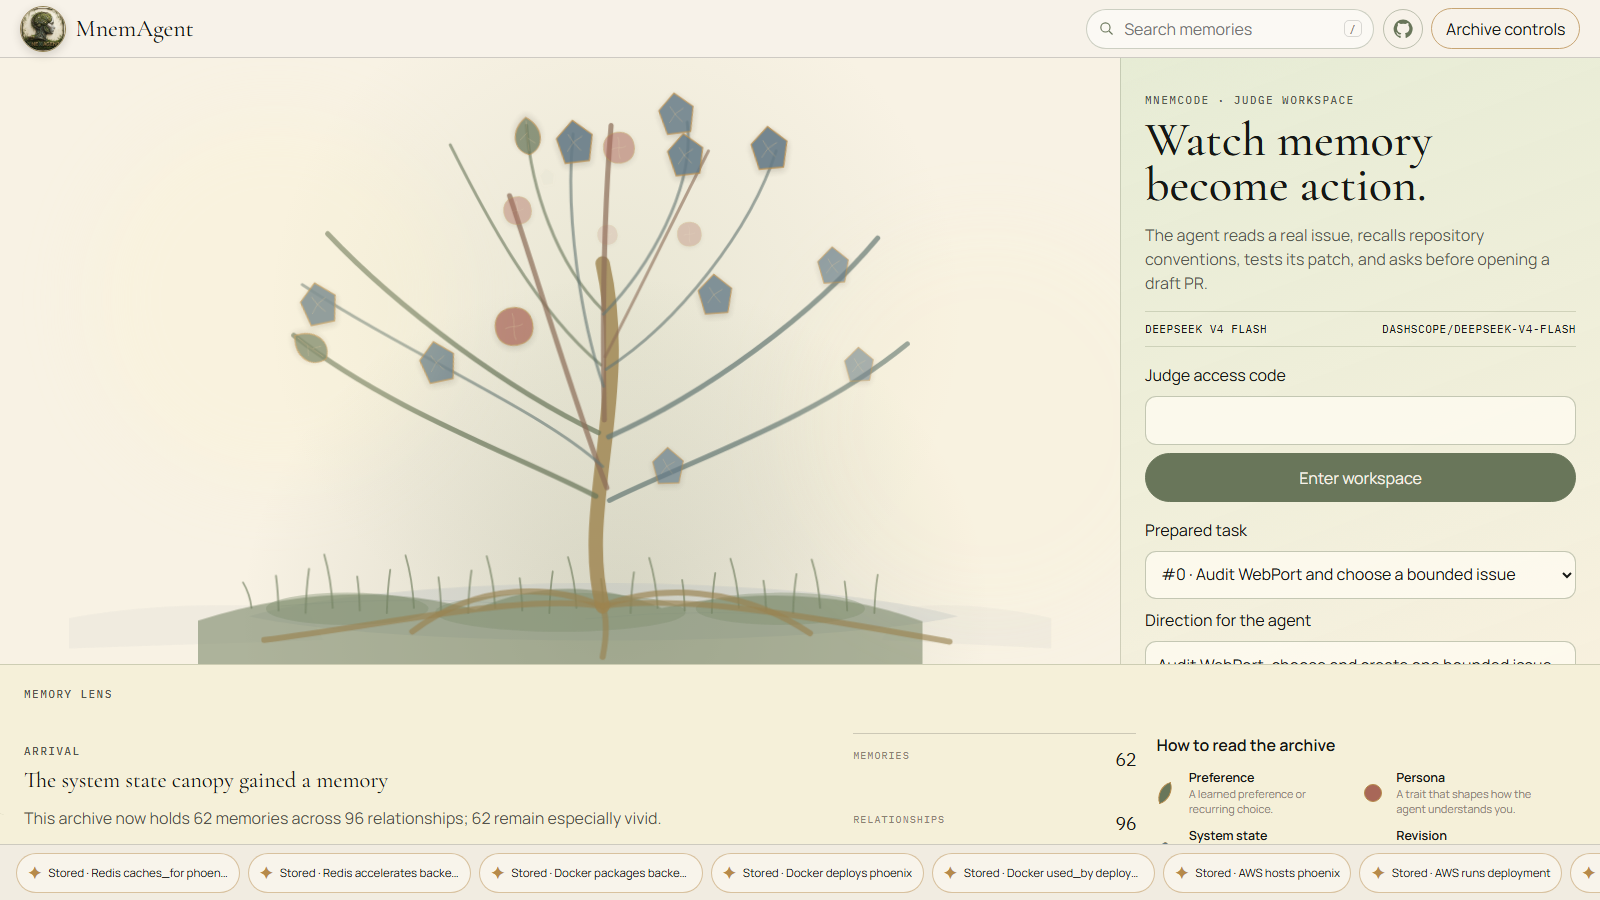
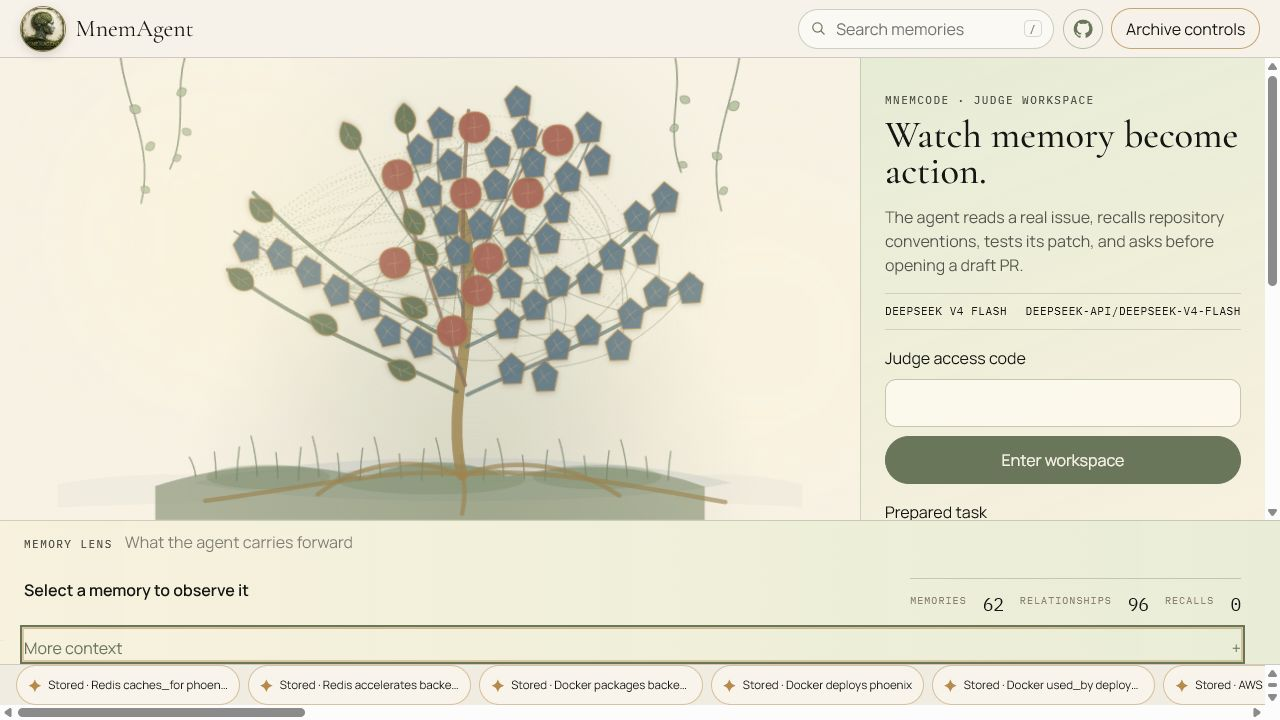
feat: polish DeepSeek judge workflow

diff --git a/workspace-broker/src/workspace-manager.js b/workspace-broker/src/workspace-manager.js
@@ -1,6 +1,6 @@
 import { randomUUID } from 'node:crypto';
 import { execFile, spawn } from 'node:child_process';
-import { readFile, readdir, realpath, rm } from 'node:fs/promises';
+import { readFile, readdir, realpath, rm, writeFile } from 'node:fs/promises';
 import path from 'node:path';
 import { promisify } from 'node:util';
 import { validatePatch } from '../../workspace-runner/patch-policy.js';
@@ -59,6 +59,22 @@ export function createWorkspaceManager({ root, allowedRepository, clone, runnerI
       }
       await walk(session.path);
       return files.sort();
+    },
+    async replaceText(id, { path: relativePath, oldText, newText } = {}) {
+      const session = sessions.get(id);
+      if (!session) throw new Error('Workspace not found.');
+      if (typeof relativePath !== 'string' || !/^(?:src|include|test|tests|public|tools)\/[A-Za-z0-9_./-]+\.(?:js|mjs|cjs|cpp|cc|c|h|hpp|css|html|json)$/.test(relativePath) || relativePath.includes('..')) throw new Error('Workspace path is invalid.');
+      if (typeof oldText !== 'string' || typeof newText !== 'string' || !oldText || oldText.length > 10_000 || newText.length > 12_000) throw new Error('Replacement is outside the bounded edit policy.');
+      if (newText.split('\n').length > 200) throw new Error('Replacement exceeds 200 lines.');
+      const workspace = await realpath(session.path);
+      const target = await realpath(path.join(workspace, relativePath));
+      if (!target.startsWith(`${workspace}${path.sep}`)) throw new Error('Workspace path escapes the repository.');
+      const content = await readFile(target, 'utf8');
+      const occurrences = content.split(oldText).length - 1;
+      if (occurrences !== 1) throw new Error('Old text must occur exactly once.');
+      await writeFile(target, content.replace(oldText, newText), 'utf8');
+      await execFileAsync('git', ['add', '-N', '--', relativePath], { cwd: session.path, windowsHide: true });
+      return { path: relativePath, changedLines: Math.max(oldText.split('\n').length, newText.split('\n').length) };
     },
     async applyPatch(id, patchText) {
       const session = sessions.get(id);

diff --git a/openclaw-harness/src/public/styles/agent-workbench.css b/openclaw-harness/src/public/styles/agent-workbench.css
@@ -15,9 +15,20 @@
 .agent-activity li { display: grid; gap: .2rem; padding-left: 1rem; border-left: 2px solid var(--lichen-green); }
 .agent-activity strong { font: .65rem var(--font-mono); text-transform: uppercase; }
 .agent-activity span { font-size: .76rem; white-space: pre-wrap; }
-.memory-lens { padding: .7rem 1.5rem; border-left: 0; border-top: 1px solid rgba(65,82,47,.22); background: rgba(245,239,217,.96); }
-.memory-lens-grid { display: grid; grid-template-columns: minmax(0, 2fr) minmax(180px, .7fr) minmax(230px, 1fr); gap: 1.25rem; min-height: 0; }
-.memory-lens h2 { font-size: 1.4rem; }
+.memory-lens { padding: .55rem 1.5rem .7rem; border-left: 0; border-top: 1px solid rgba(65,82,47,.22); background: linear-gradient(90deg, rgba(247,241,222,.98), rgba(232,237,214,.96)); }
+.memory-lens-heading { display: flex; align-items: baseline; gap: .75rem; margin-bottom: .25rem; }
+.memory-lens-heading p { margin: 0; }
+.memory-lens-heading > span { color: color-mix(in srgb, var(--ink) 52%, transparent); font: .67rem var(--font-sans); }
+.memory-lens-grid { display: grid; grid-template-columns: minmax(0, 1fr) auto; align-items: start; gap: .75rem 1.25rem; min-height: 0; }
+.memory-lens-primary { min-width: 0; }
+.memory-lens h2 { margin: 0 0 .2rem; font-size: 1.25rem; line-height: 1; }
+.memory-lens #vitalSigns { display: grid; grid-auto-flow: column; gap: 1rem; margin: 0; }
+.memory-lens-context { grid-column: 1 / -1; border-top: 1px solid rgba(65,82,47,.14); }
+.memory-lens-context summary { display: flex; justify-content: space-between; align-items: center; padding: .4rem 0 0; cursor: pointer; color: var(--living-moss); font: 600 .67rem var(--font-sans); list-style: none; }
+.memory-lens-context summary::-webkit-details-marker { display: none; }
+.memory-lens-context summary span:last-child { transition: transform 180ms var(--ease-organic); }
+.memory-lens-context[open] summary span:last-child { transform: rotate(45deg); }
+.memory-lens-context-body { display: grid; grid-template-columns: minmax(0, 1fr) minmax(260px, .8fr); gap: 1.25rem; padding: .45rem 0 .25rem; }
 .memory-lens .material-legend-list { grid-template-columns: repeat(2, minmax(0,1fr)); }
 @media (max-width: 1099px) {
   .archive-app { grid-template-rows: var(--header-h) auto 56px; }

diff --git a/openclaw-harness/src/public/index.html b/openclaw-harness/src/public/index.html
@@ -57,13 +57,19 @@
       </aside>
     </main>
     <section id="observationMargin" class="observation-margin memory-lens" aria-label="Memory Lens">
+      <div class="memory-lens-heading">
         <p class="observation-eyebrow">Memory lens</p>
-        <div class="memory-lens-grid">
-        <div><section id="narrativeCopy" aria-live="polite"></section><section id="memoryDetail" aria-label="Selected memory"></section></div>
+        <span>What the agent carries forward</span>
+      </div>
+      <div class="memory-lens-grid">
+        <div class="memory-lens-primary"><section id="memoryDetail" aria-label="Selected memory"></section></div>
         <dl id="vitalSigns" aria-label="Archive vital signs"></dl>
-        <section id="materialLegend" aria-label="Memory material legend"></section>
-        </div>
-      </section>
+        <details class="memory-lens-context">
+          <summary><span>More context</span><span aria-hidden="true">+</span></summary>
+          <div class="memory-lens-context-body"><section id="narrativeCopy" aria-live="polite"></section><section id="materialLegend" aria-label="Memory material legend"></section></div>
+        </details>
+      </div>
+    </section>
     <nav id="sedimentTimeline" class="sediment-timeline" aria-label="Memory history"></nav>
     <dialog id="archiveMenu" class="archive-menu" aria-labelledby="archiveMenuTitle"><form method="dialog"><h2 id="archiveMenuTitle">Archive controls</h2><label for="userId">Memory owner</label><input id="userId" name="userId" autocomplete="off"><fieldset id="categoryFilters"><legend>Memory forms</legend></fieldset><fieldset id="lifecycleFilters"><legend>Vitality</legend></fieldset><button id="motionToggle" type="button" aria-pressed="false">Reduce motion</button><button id="replayOpening" type="button">Replay awakening</button><button id="resetArchiveView" type="button">Reset view</button><button id="exportArchive" type="button">Export archive data</button><button id="retryArchive" type="button">Retry connection</button><button value="close">Close controls</button></form></dialog>
     <section id="observationSheet" class="observation-sheet" aria-labelledby="observationSheetTitle"><h2 id="observationSheetTitle">Memory observation</h2><div id="observationSheetContent"></div></section>

diff --git a/workspace-broker/src/index.js b/workspace-broker/src/index.js
@@ -65,8 +65,9 @@ const server = http.createServer(async (req, res) => {
     if (req.method === 'GET' && fileMatch) return send(res, 200, { content: await manager.readFile(fileMatch[1], decodeURIComponent(fileMatch[2])) });
     const filesMatch = /^\/v1\/workspaces\/([^/]+)\/files$/.exec(req.url);
     if (req.method === 'GET' && filesMatch) return send(res, 200, { files: await manager.listFiles(filesMatch[1]) });
-    const actionMatch = /^\/v1\/workspaces\/([^/]+)\/(patch|test|diff)$/.exec(req.url);
+    const actionMatch = /^\/v1\/workspaces\/([^/]+)\/(patch|replace|test|diff)$/.exec(req.url);
     if (actionMatch && req.method === 'POST' && actionMatch[2] === 'patch') return send(res, 200, await manager.applyPatch(actionMatch[1], input.patch));
+    if (actionMatch && req.method === 'POST' && actionMatch[2] === 'replace') return send(res, 200, await manager.replaceText(actionMatch[1], input));
     if (actionMatch && req.method === 'POST' && actionMatch[2] === 'test') {
       const result = await manager.test(actionMatch[1], input);
       testEvidence.set(actionMatch[1], result.exitCode === 0);

diff --git a/config/openclaw/broker-mcp.js b/config/openclaw/broker-mcp.js
@@ -21,6 +21,7 @@ const tools = [
   ['read_workspace_file', 'Read one regular file inside the active workspace', { workspaceId: { type: 'string' }, path: { type: 'string' } }],
   ['list_workspace_files', 'List bounded regular-file paths in the active workspace', { workspaceId: { type: 'string' } }],
   ['apply_workspace_patch', 'Validate and apply a bounded unified patch', { workspaceId: { type: 'string' }, patch: { type: 'string' } }],
+  ['replace_workspace_text', 'Replace one exact, unique, bounded source fragment', { workspaceId: { type: 'string' }, path: { type: 'string' }, oldText: { type: 'string' }, newText: { type: 'string' } }],
   ['run_workspace_tests', 'Run one fixed no-network test command', { workspaceId: { type: 'string' }, commandId: { type: 'string', enum: ['test','test-unit','validate-fs','test-integration','numeric-command-test'] } }],
   ['show_workspace_diff', 'Show the current bounded workspace diff', { workspaceId: { type: 'string' } }],
   ['cleanup_workspace', 'Delete the active workspace', { workspaceId: { type: 'string' } }],
@@ -34,6 +35,7 @@ async function call(name, args) {
   if (name === 'read_workspace_file') return broker(`/v1/workspaces/${id}/files?path=${encodeURIComponent(args.path)}`, 'GET');
   if (name === 'list_workspace_files') return broker(`/v1/workspaces/${id}/files`, 'GET');
   if (name === 'apply_workspace_patch') return broker(`/v1/workspaces/${id}/patch`, 'POST', { patch: args.patch });
+  if (name === 'replace_workspace_text') return broker(`/v1/workspaces/${id}/replace`, 'POST', { path: args.path, oldText: args.oldText, newText: args.newText });
   if (name === 'run_workspace_tests') return broker(`/v1/workspaces/${id}/test`, 'POST', { commandId: args.commandId });
   if (name === 'show_workspace_diff') return broker(`/v1/workspaces/${id}/diff`, 'POST');
   if (name === 'cleanup_workspace') return broker(`/v1/workspaces/${id}/cleanup`, 'POST');

diff --git a/openclaw-harness/src/index.js b/openclaw-harness/src/index.js
@@ -122,7 +122,7 @@ app.get("/api/judge/session", (req, res) => {
 });
 
 app.get("/api/judge/scenarios", (_req, res) => res.json({
-  model: process.env.JUDGE_MODEL || "dashscope/deepseek-v4-flash",
+  model: process.env.JUDGE_MODEL || "deepseek-api/deepseek-v4-flash",
   repository: process.env.JUDGE_DEMO_REPOSITORY || "crankysmh47/WebPort",
   scenarios: [
     { issueNumber: 0, title: "Audit WebPort and choose a bounded issue", outcome: "A real issue, tested patch, and draft PR" },

diff --git a/openclaw-harness/src/judge-run-service.js b/openclaw-harness/src/judge-run-service.js
@@ -22,7 +22,7 @@ async function openClawExecutor({ sessionId, message, model }) {
 }
 
 function createJudgeRunService({
-  model = process.env.JUDGE_MODEL || 'dashscope/deepseek-v4-flash',
+  model = process.env.JUDGE_MODEL || 'deepseek-api/deepseek-v4-flash',
   hardBudgetUsd = Number(process.env.JUDGE_MODEL_HARD_BUDGET_USD || 4.5),
   executor = openClawExecutor,
   replayText = 'Replay mode is active. The recorded agent run remains available without additional model spend.',

diff --git a/docs/MNEMCODE_DEMO.md b/docs/MNEMCODE_DEMO.md
@@ -17,7 +17,7 @@ sequenceDiagram
   U->>O: New session + issue
   O->>M: Retrieve repository + core memories
   O->>B: Read issue and bounded files
-  O->>B: Apply unified patch
+  O->>B: Apply bounded source edits
   B->>R: Fixed test command, no network
   R-->>B: Exit code + bounded output
   B-->>U: Diff and test evidence
@@ -28,16 +28,18 @@ sequenceDiagram
 
 ## WebPort acceptance case
 
-WebPort currently has no open issue. That is useful for the final test:
+The completed acceptance run is captured in [WebPort issue #11](https://github.com/crankysmh47/WebPort/issues/11) and [draft PR #13](https://github.com/crankysmh47/WebPort/pull/13):
 
-1. The agent creates issue-0 audit workspace and lists repository files.
+1. The agent creates an issue-0 audit workspace and lists repository files.
 2. It reads tests, contribution rules, and a small set of relevant sources.
 3. It selects a reproducible defect with a bounded test plan.
 4. It creates the GitHub issue, removes the audit workspace, and creates a fresh workspace tied to the new issue number.
 5. It retrieves repository memory, writes a test first, applies the implementation, and runs WebPort's fixed unit/validation commands.
 6. A human reviews the diff before the broker opens a draft PR.
 
-Model: `dashscope/deepseek-v4-flash` through the configured DashScope-compatible endpoint. The judge stack does not accept an OpenRouter key.
+The constrained runner passed the focused numeric-command regression test, WebPort's complete unit test command, and filesystem validation before the branch was published. The commit is authored only as `crankysmh47 <[email redacted]>`.
+
+Model: `deepseek-api/deepseek-v4-flash` in OpenClaw, sent as `deepseek-v4-flash` to the official DeepSeek API. The judge stack does not use the Qwen/DashScope key and does not accept an OpenRouter key.
 
 ## Hard limits
 

diff --git a/README.md b/README.md
@@ -65,7 +65,7 @@ The graph API renders no more than 150 individual memories and 120 ambient relat
 6. Review the exact diff and test output. Approve only if both are correct.
 7. The broker opens a draft PR. It cannot push to `main` or create a ready-for-review PR.
 
-The final repository acceptance run uses `crankysmh47/WebPort`: the agent audits the repository, chooses and creates a bounded issue, implements it with `deepseek-v4-flash`, and opens a tested draft PR.
+The final repository acceptance run uses `crankysmh47/WebPort`: the agent selected [issue #11](https://github.com/crankysmh47/WebPort/issues/11), retrieved its repository-scoped correction, wrote regression coverage, implemented the bounded fix with `deepseek-v4-flash`, and produced [tested draft PR #13](https://github.com/crankysmh47/WebPort/pull/13).
 
 ## Local setup
 

diff --git a/docs/DEPLOY_ALIBABA.md b/docs/DEPLOY_ALIBABA.md
@@ -34,7 +34,7 @@ chmod 600 .env.cloud
 getent group docker | cut -d: -f3  # use this as DOCKER_GID
 ```
 
-Create a fine-grained GitHub token for the single demo repository. Grant Contents, Issues, and Pull requests read/write. Set the DashScope-compatible endpoint and key that can call `deepseek-v4-flash`. There is no OpenRouter key option in the judge stack. Replace every placeholder in `.env.cloud`.
+Create a fine-grained GitHub token for the single demo repository. Grant Contents, Issues, and Pull requests read/write. Set `DEEPSEEK_API_KEY` for the official `https://api.deepseek.com` endpoint. The judge stack does not use the Qwen/DashScope key or offer an OpenRouter key option. Replace every placeholder in `.env.cloud`.
 
 ## 4. Deploy
 